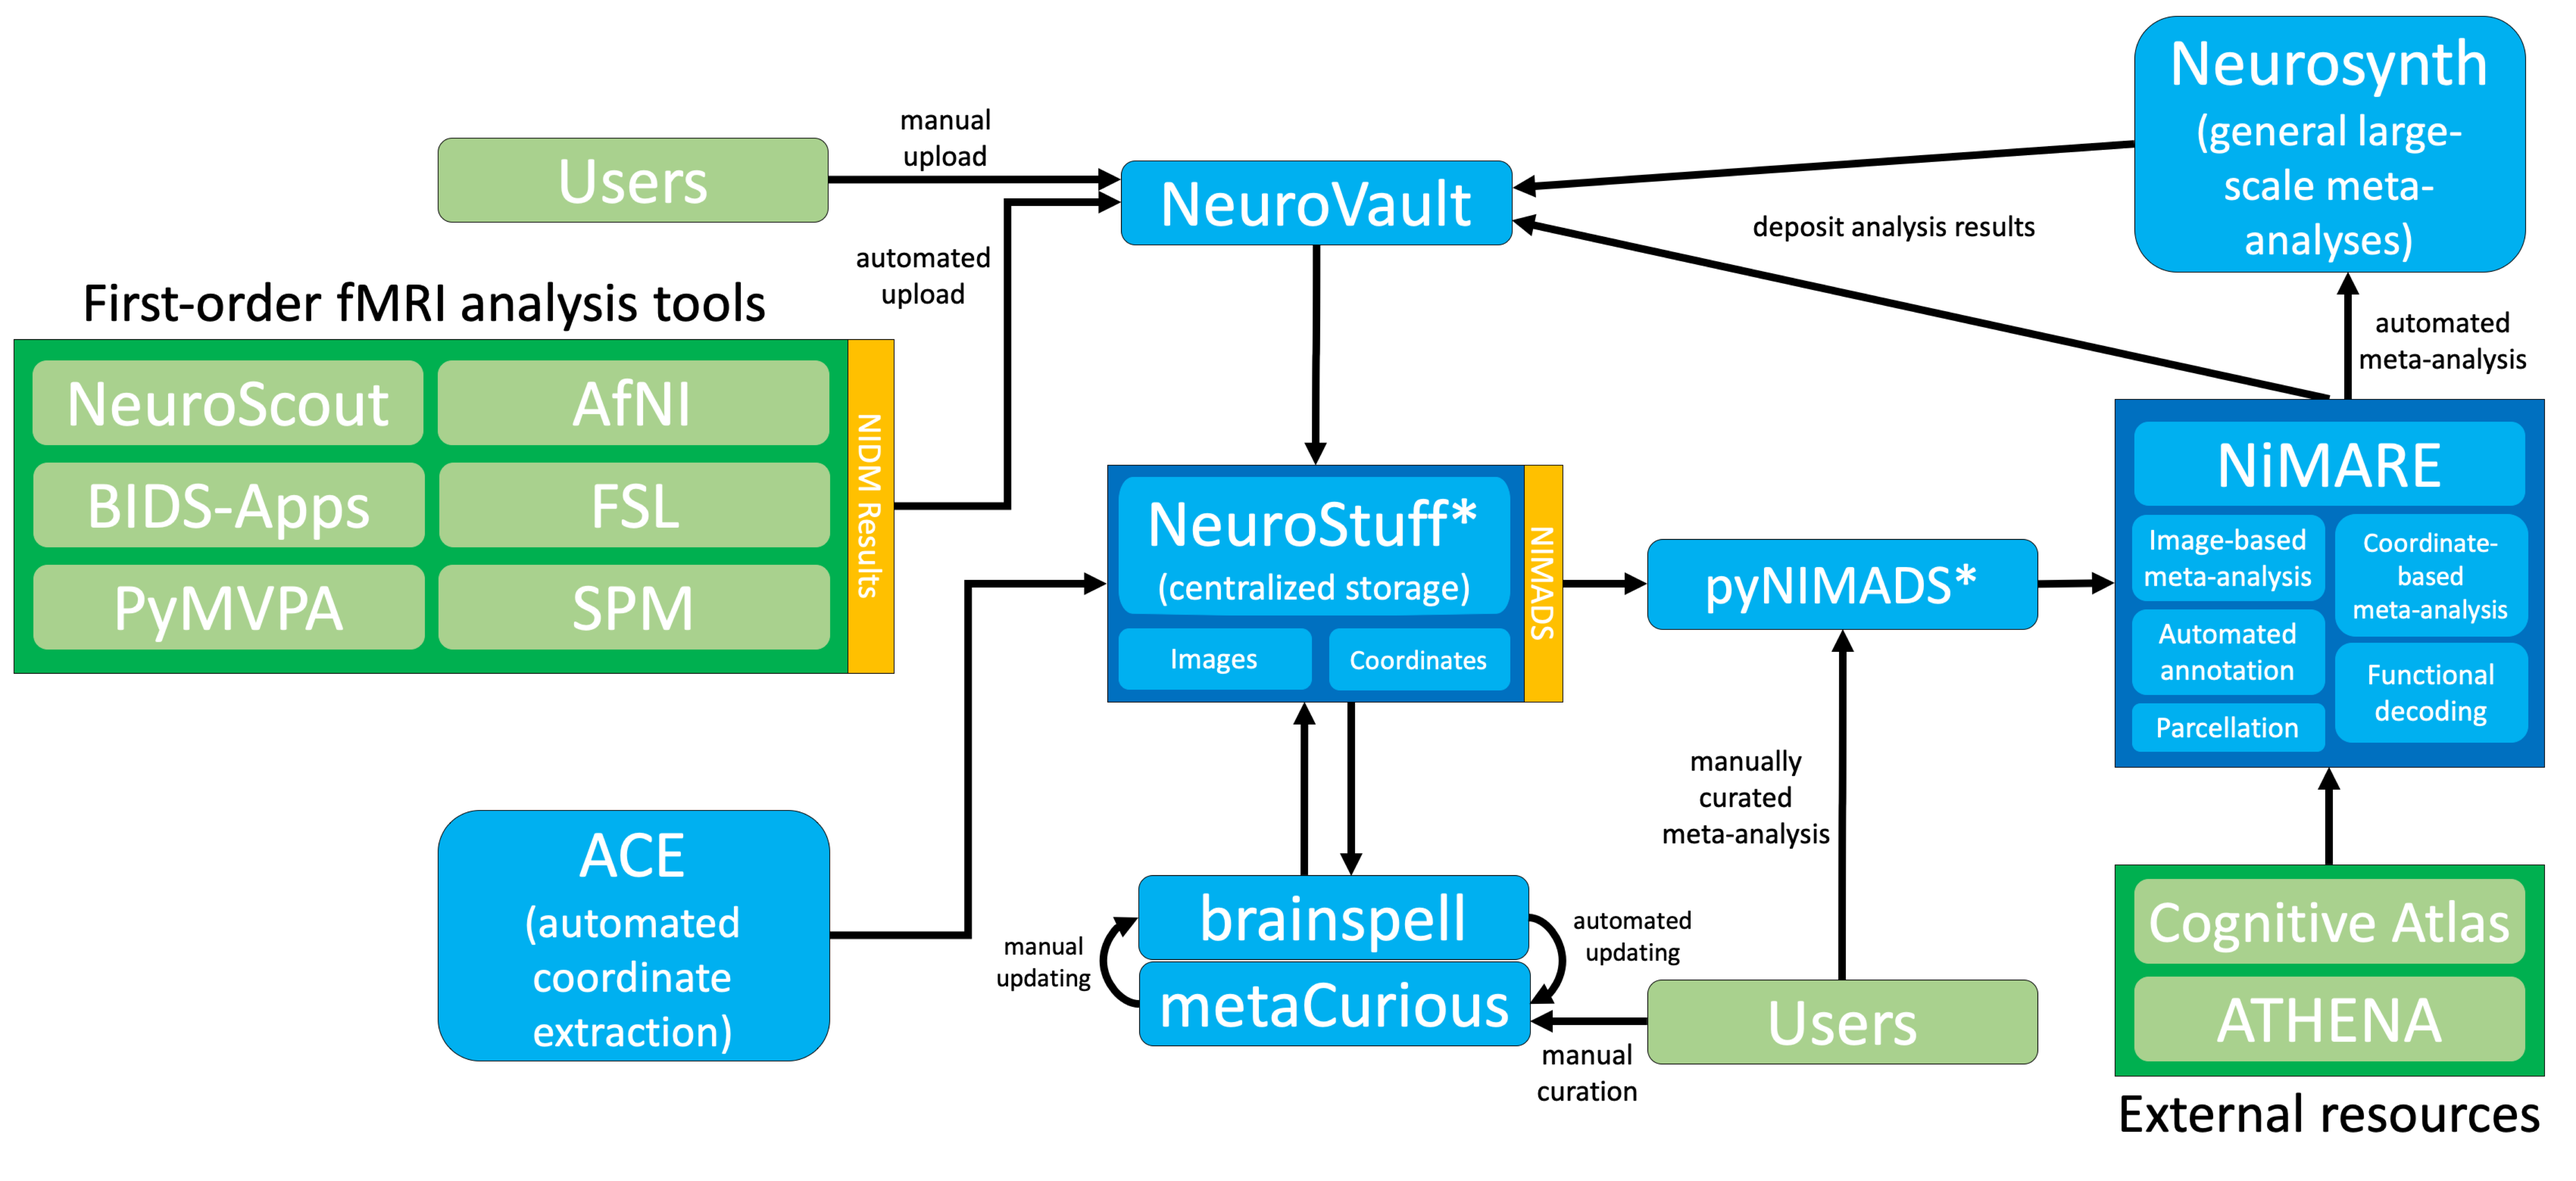
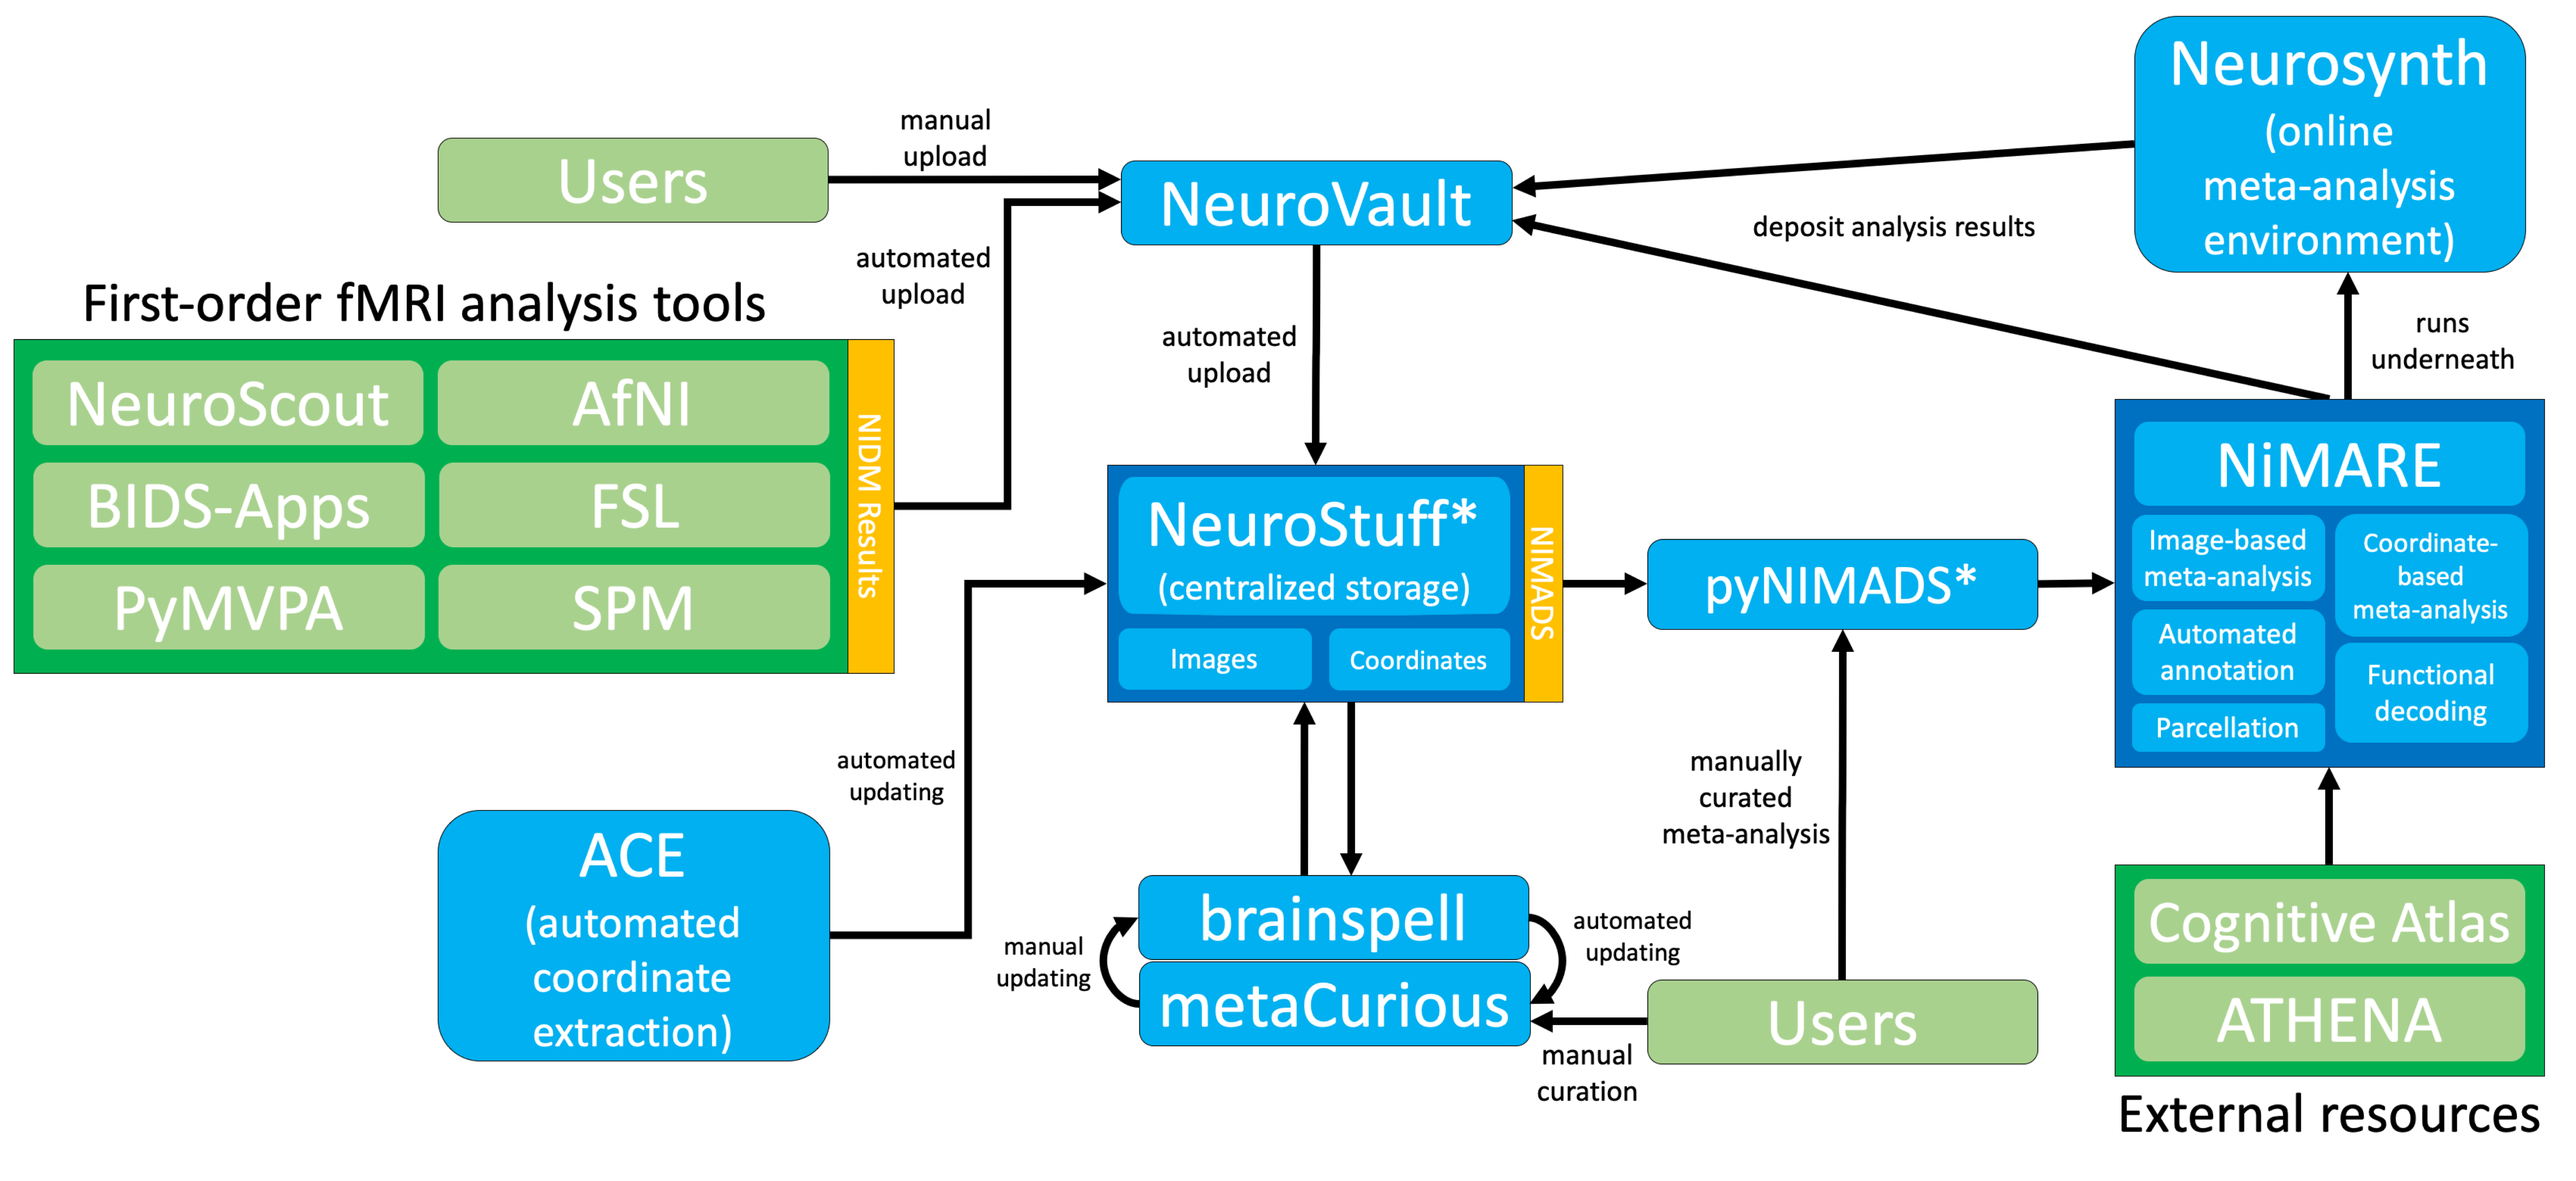
Update ecosystem figure.

diff --git a/nimare/dataset/dataset.py b/nimare/dataset/dataset.py
@@ -471,7 +471,7 @@ class Dataset(NiMAREBase):
         ids : list, optional
             A list of IDs in the Dataset for which to find texts. Default is
             None, in which case all texts of requested type are returned.
-        imgtype : str, optional
+        imtype : str, optional
             Type of image to extract. Corresponds to column name in
             Dataset.images DataFrame. Default is 'z'.
 

diff --git a/docs/about.rst b/docs/about.rst
@@ -50,10 +50,11 @@ for automated meta-analyses, functional decoding, and gene expression
 visualization, and provides a Python package implementing the above methods.
 
 In order to improve modularization, the next iteration of Neurosynth will limit
-itself to the web interface and providing a centralized storage for large-scale
-automated meta-analyses, but not actually implementing the algorithms used
-to run those meta-analyses or to perform the other services provided on the
-website (e.g., functional decoding and topic modeling).
+itself to a web interface for meta-analytic model specification and providing a
+centralized storage for large-scale meta-analyses, but not actually
+implementing the algorithms used to run those meta-analyses or to perform the
+other services provided on the website (e.g., functional decoding and topic
+modeling).
 The algorithms currently implemented in the `Neurosynth Python package`_ will be
 implemented (among many others) in NiMARE.
 Under the current plan, the database at the moment stored by Neurosynth will
